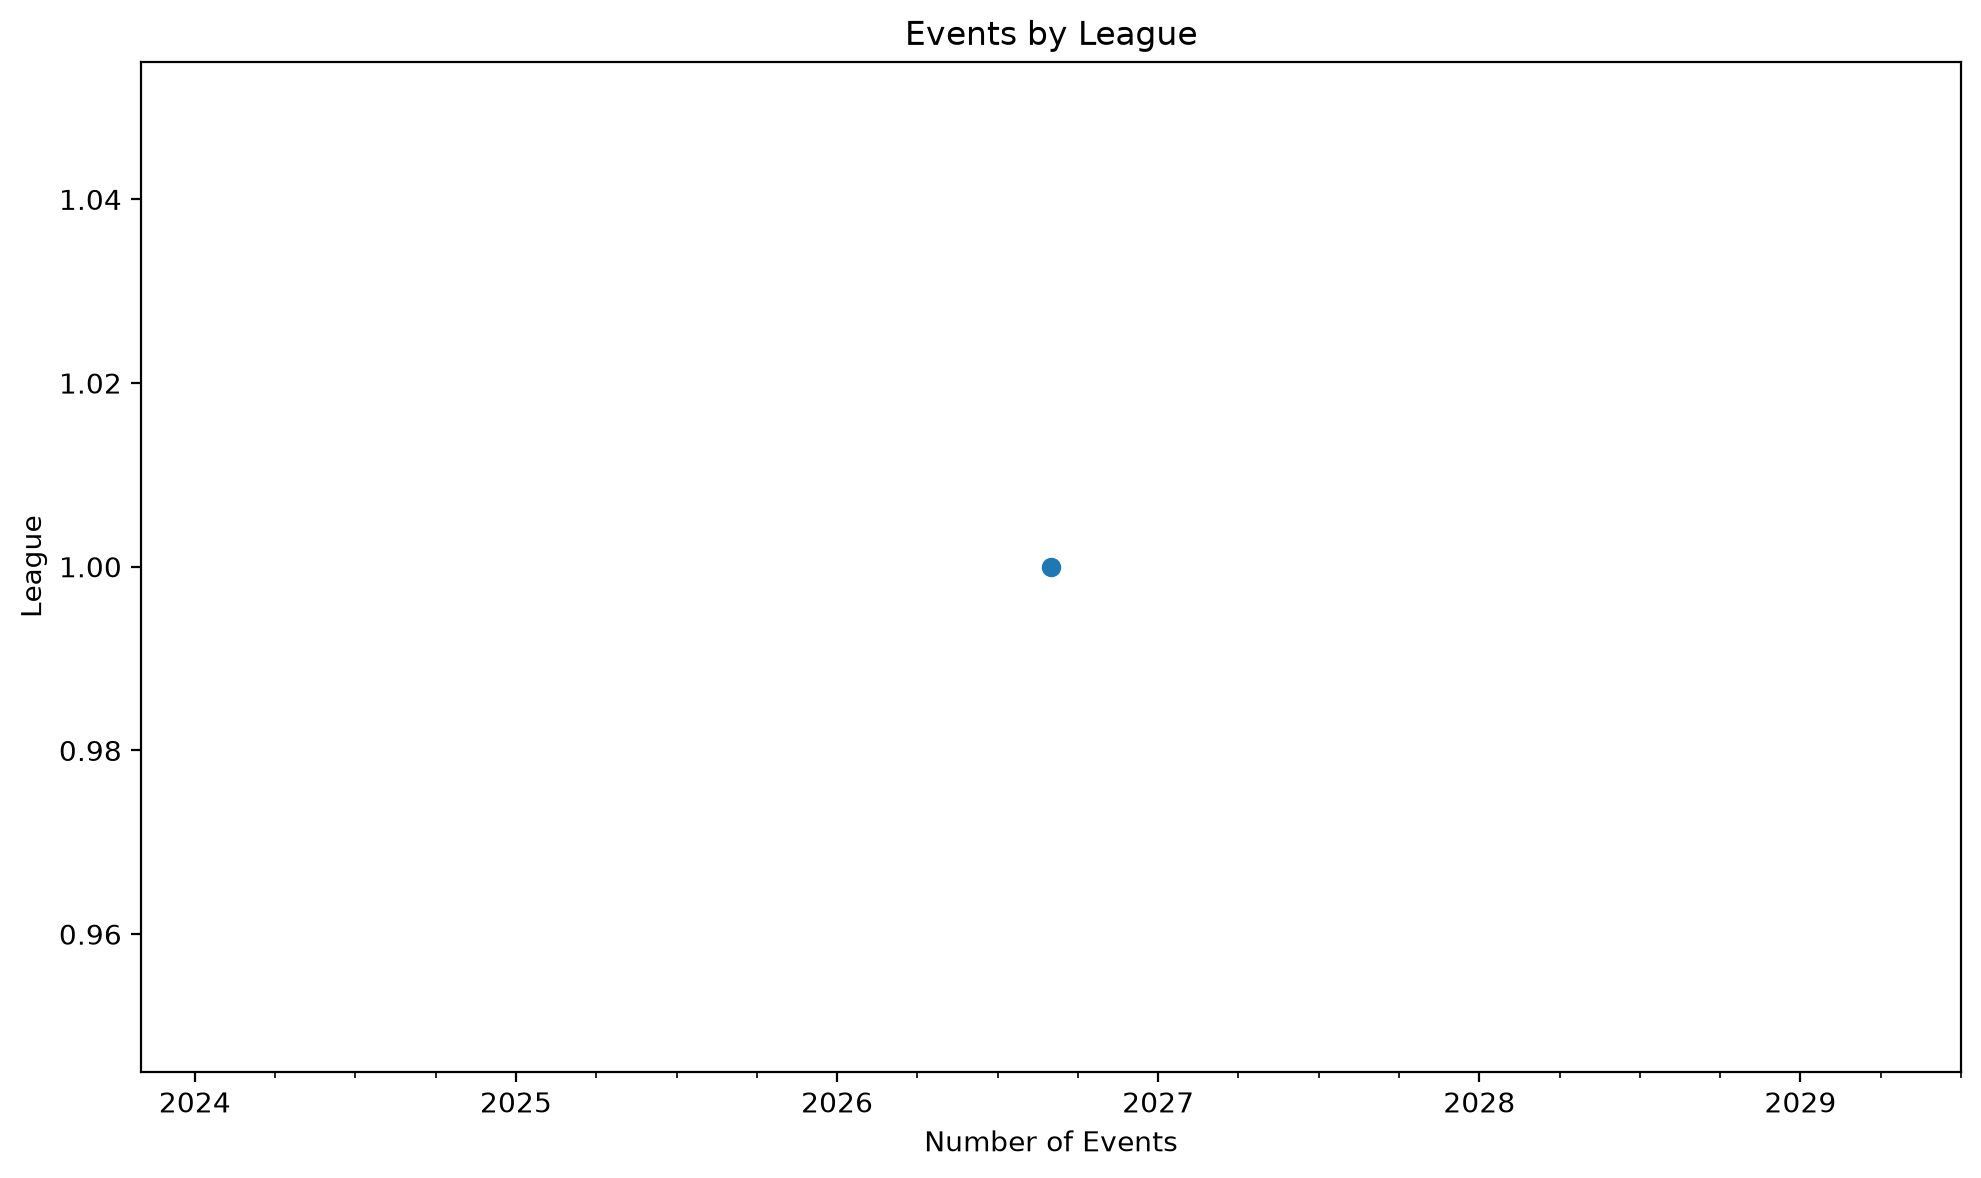
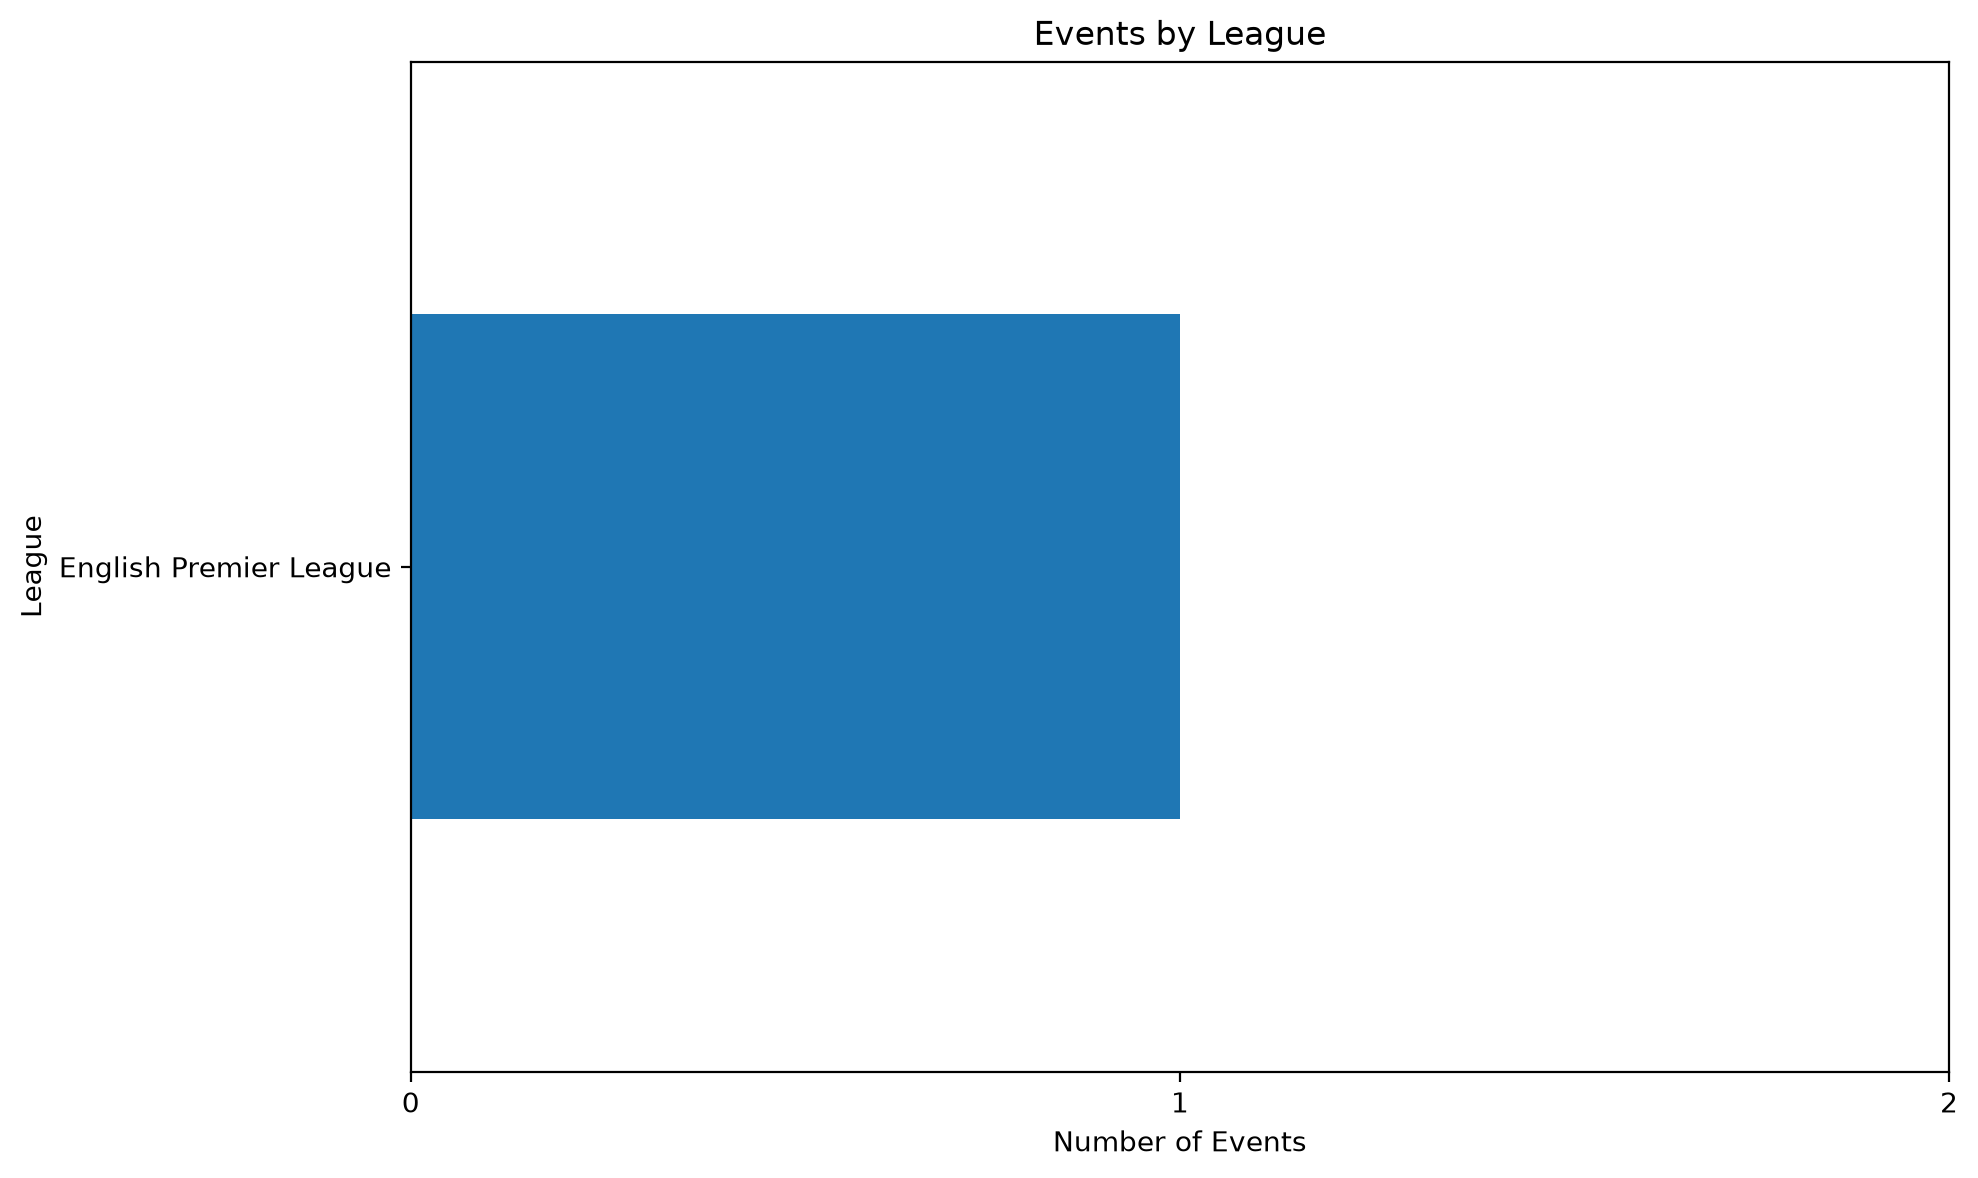
Refined analytics pipeline and asset management

diff --git a/analytics.py b/analytics.py
@@ -1,8 +1,10 @@
+import os
 import sqlite3
 import pandas as pd
 import matplotlib.pyplot as plt
 
 DATABASE_NAME = "sports.db"
+ASSETS_DIR = "assets"
 
 
 def get_connection():
@@ -39,7 +41,7 @@ def create_position_chart(players):
     fig.tight_layout()
 
     fig.savefig(
-        "position_distribution.png",
+        os.path.join(ASSETS_DIR, "position_distribution.png"),
         dpi=200,
         bbox_inches="tight"
     )
@@ -64,10 +66,11 @@ def create_nationality_chart(players):
     fig.tight_layout()
 
     fig.savefig(
-        "nationality_distribution.png",
+        os.path.join(ASSETS_DIR, "nationality_distribution.png"),
         dpi=200,
         bbox_inches="tight"
-    )
+)
+  
 
     plt.show()
 
@@ -89,7 +92,26 @@ def create_events_by_league_chart():
         kind="barh",
         ax=ax
     )
+    ax.set_xticks(
+        range(0, int(league_counts.max()) + 2)
+    )
+
+    ax.set_title("Events by League")
+    ax.set_xlabel("Number of Events")
+    ax.set_ylabel("League")
+
+    fig.tight_layout()
+
+    fig.savefig(
+        os.path.join(ASSETS_DIR, "events_by_league.png"),
+        dpi=200,
+        bbox_inches="tight"
+)
     
+
+    plt.show()
+
+
 def create_events_over_time_chart():
     connection = get_connection()
 
@@ -130,30 +152,16 @@ def create_events_over_time_chart():
     fig.tight_layout()
 
     fig.savefig(
-        "events_over_time.png",
+        os.path.join(ASSETS_DIR, "events_over_time.png"),
         dpi=200,
         bbox_inches="tight"
     )
 
     plt.show()
-
     
-    ax.set_title("Events by League")
-    ax.set_xlabel("Number of Events")
-    ax.set_ylabel("League")
-
-    fig.tight_layout()
-
-    fig.savefig(
-        "events_by_league.png",
-        dpi=200,
-        bbox_inches="tight"
-    )
-
-    plt.show()
-
 
 def main():
+    os.makedirs(ASSETS_DIR, exist_ok=True)
     players = load_players()
 
     create_position_chart(players)
